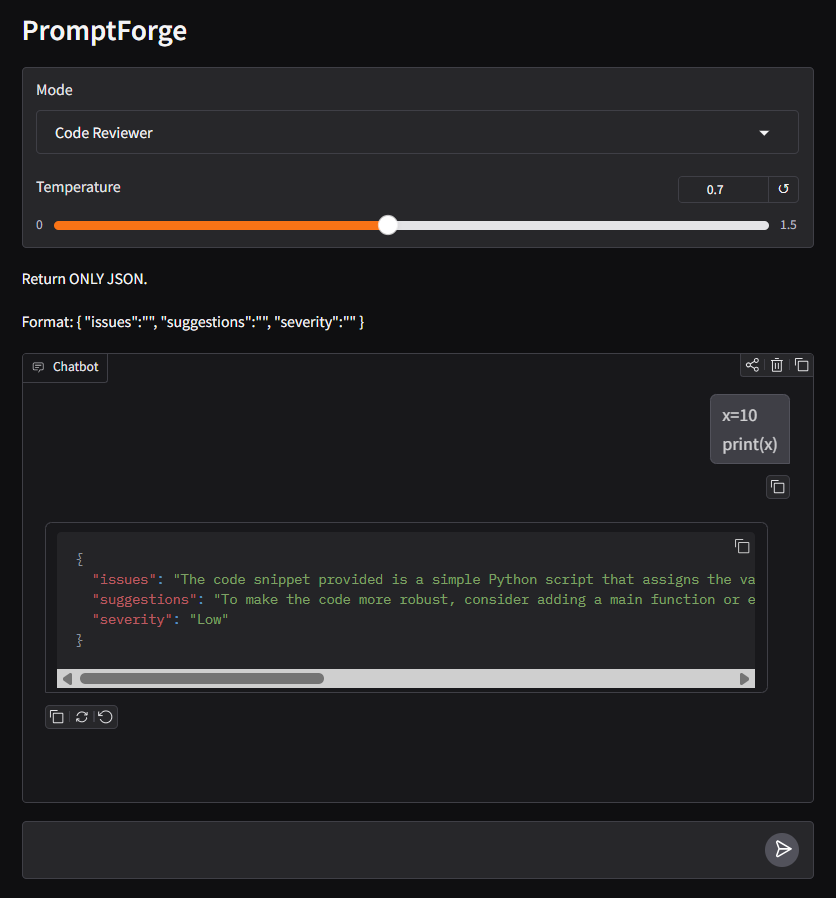
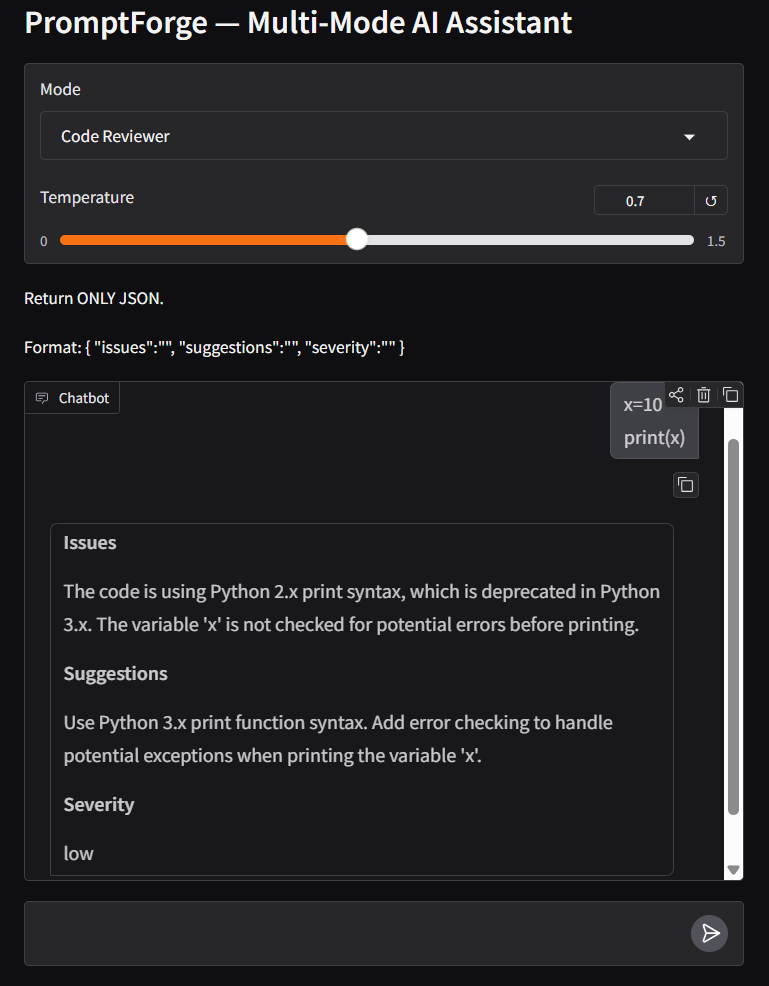
feat: build Promptforge multi-mode AI assistant

diff --git a/app.py b/app.py
@@ -200,7 +200,7 @@ def update_prompt(selected):
 with gr.Blocks() as app:
 
     gr.Markdown(
-        "# PromptForge"
+        "# PromptForge — Multi-Mode AI Assistant"
     )
 
     mode = gr.Dropdown(
